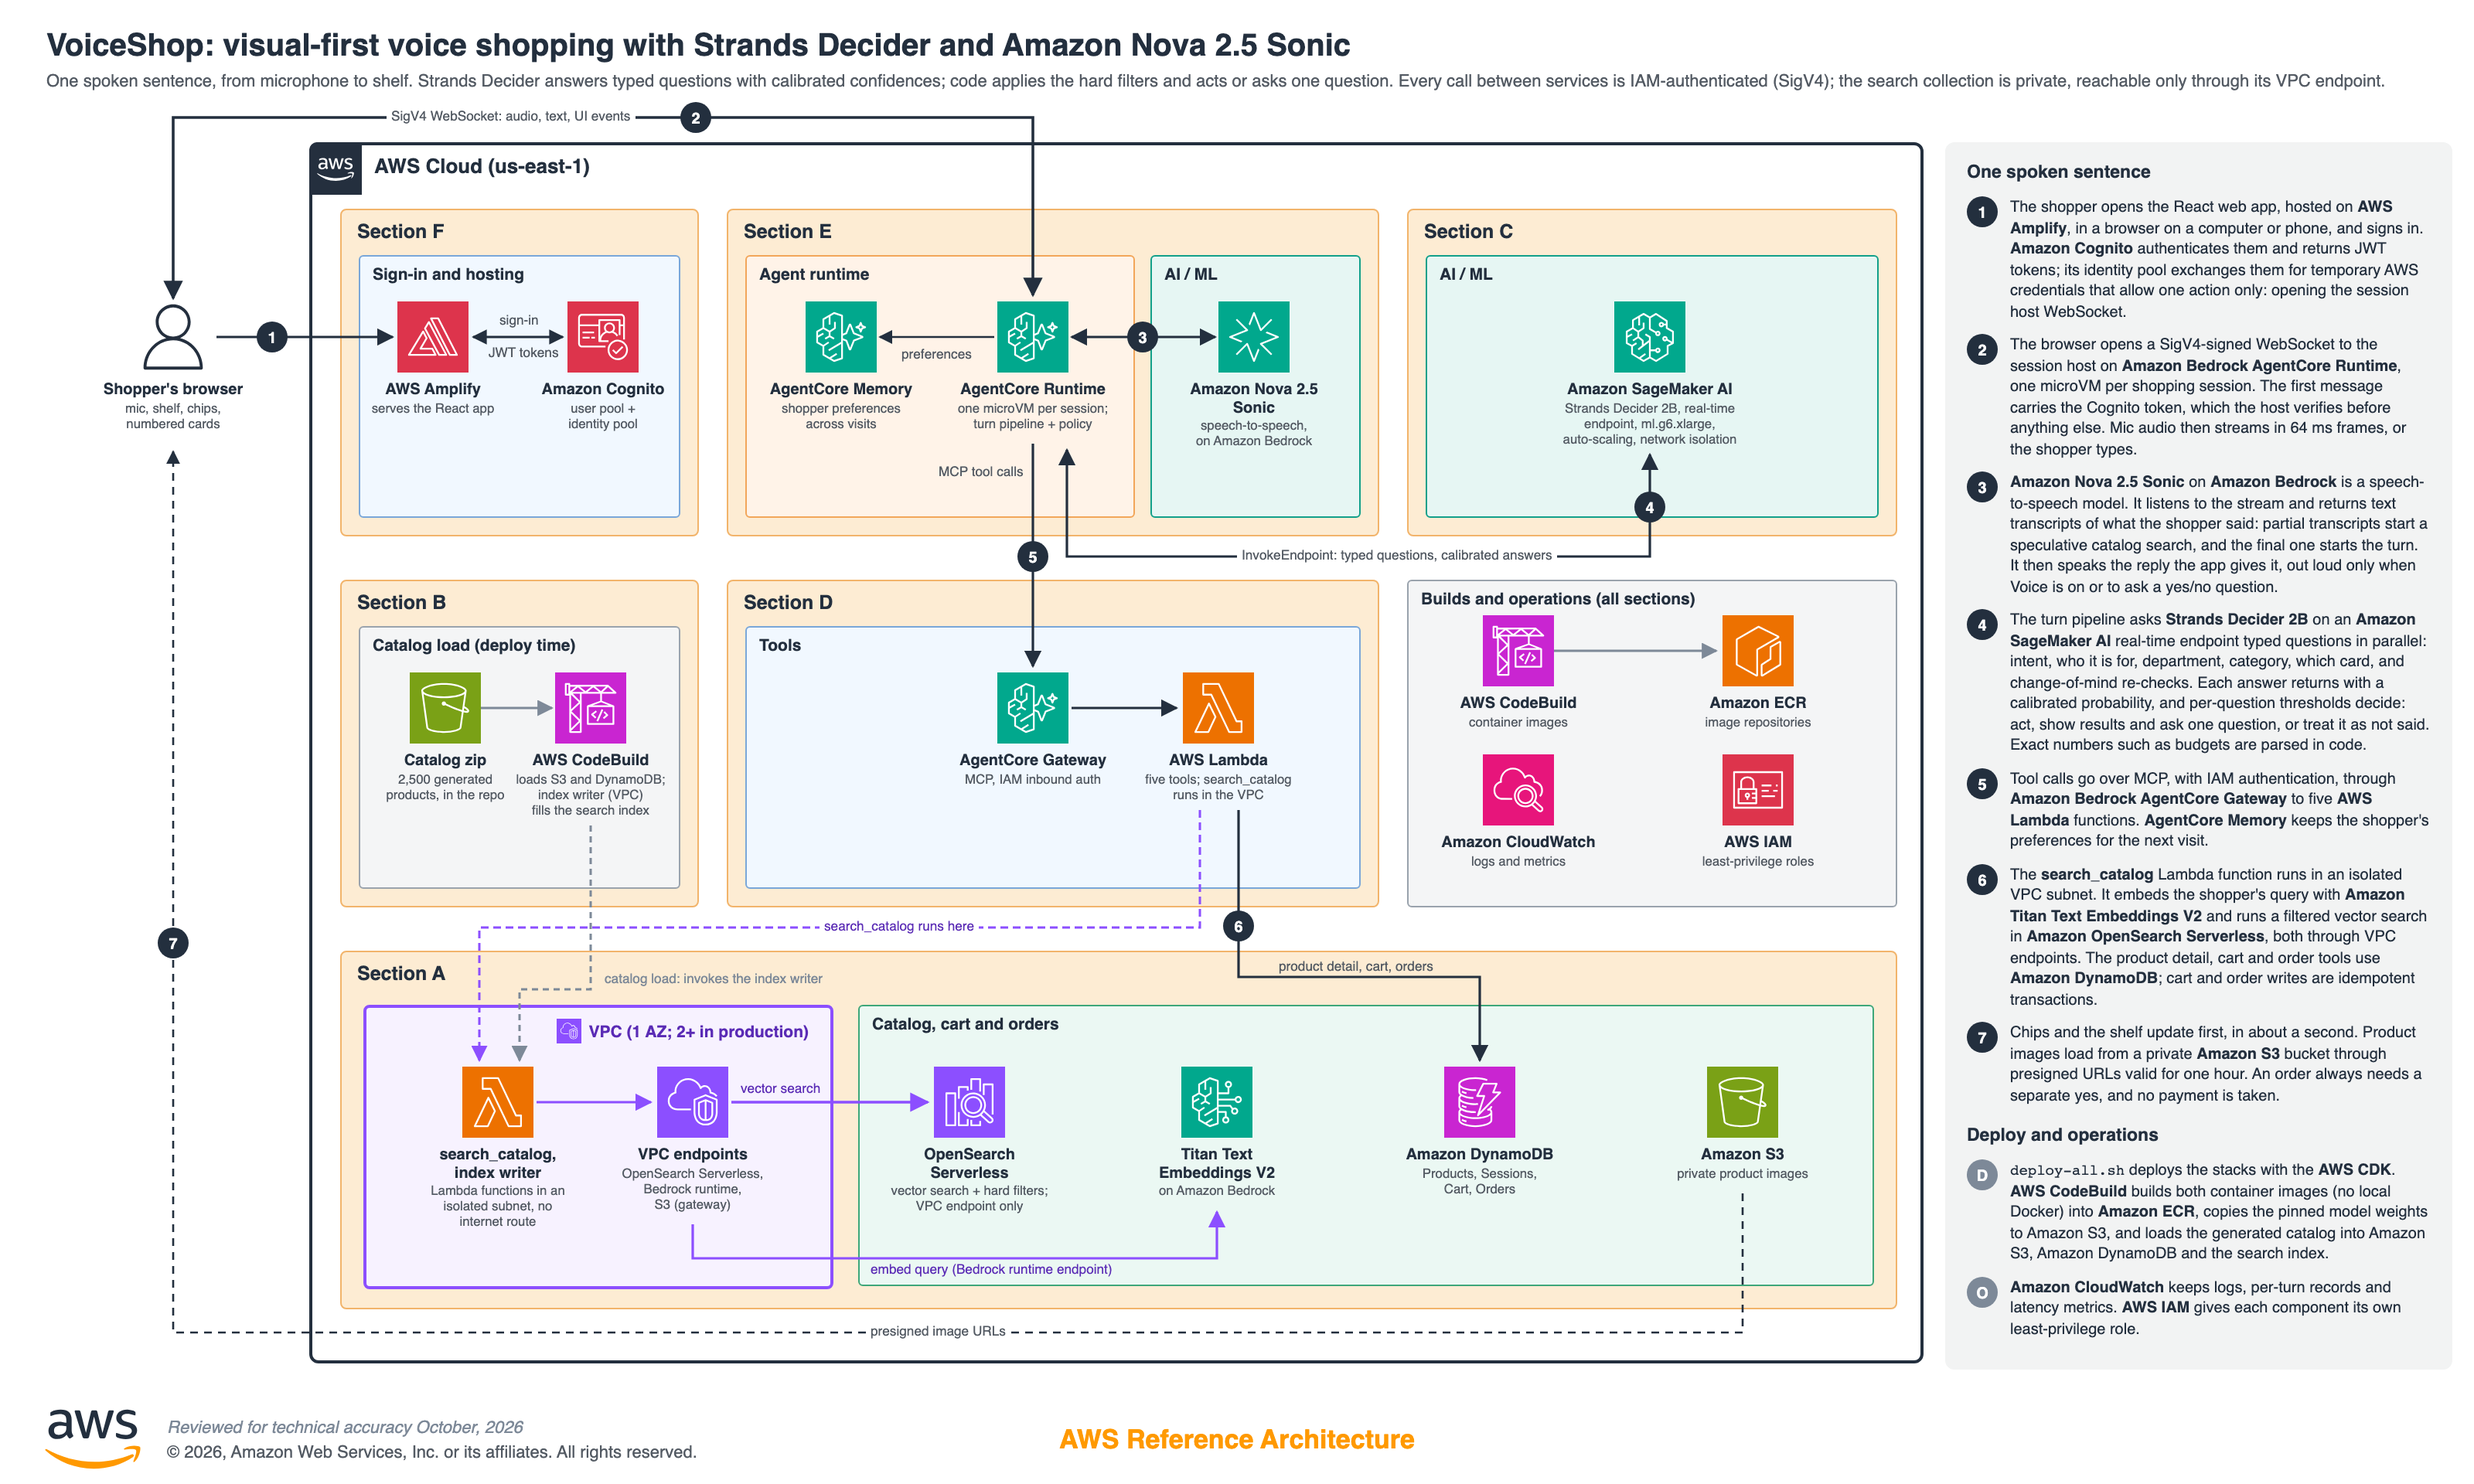
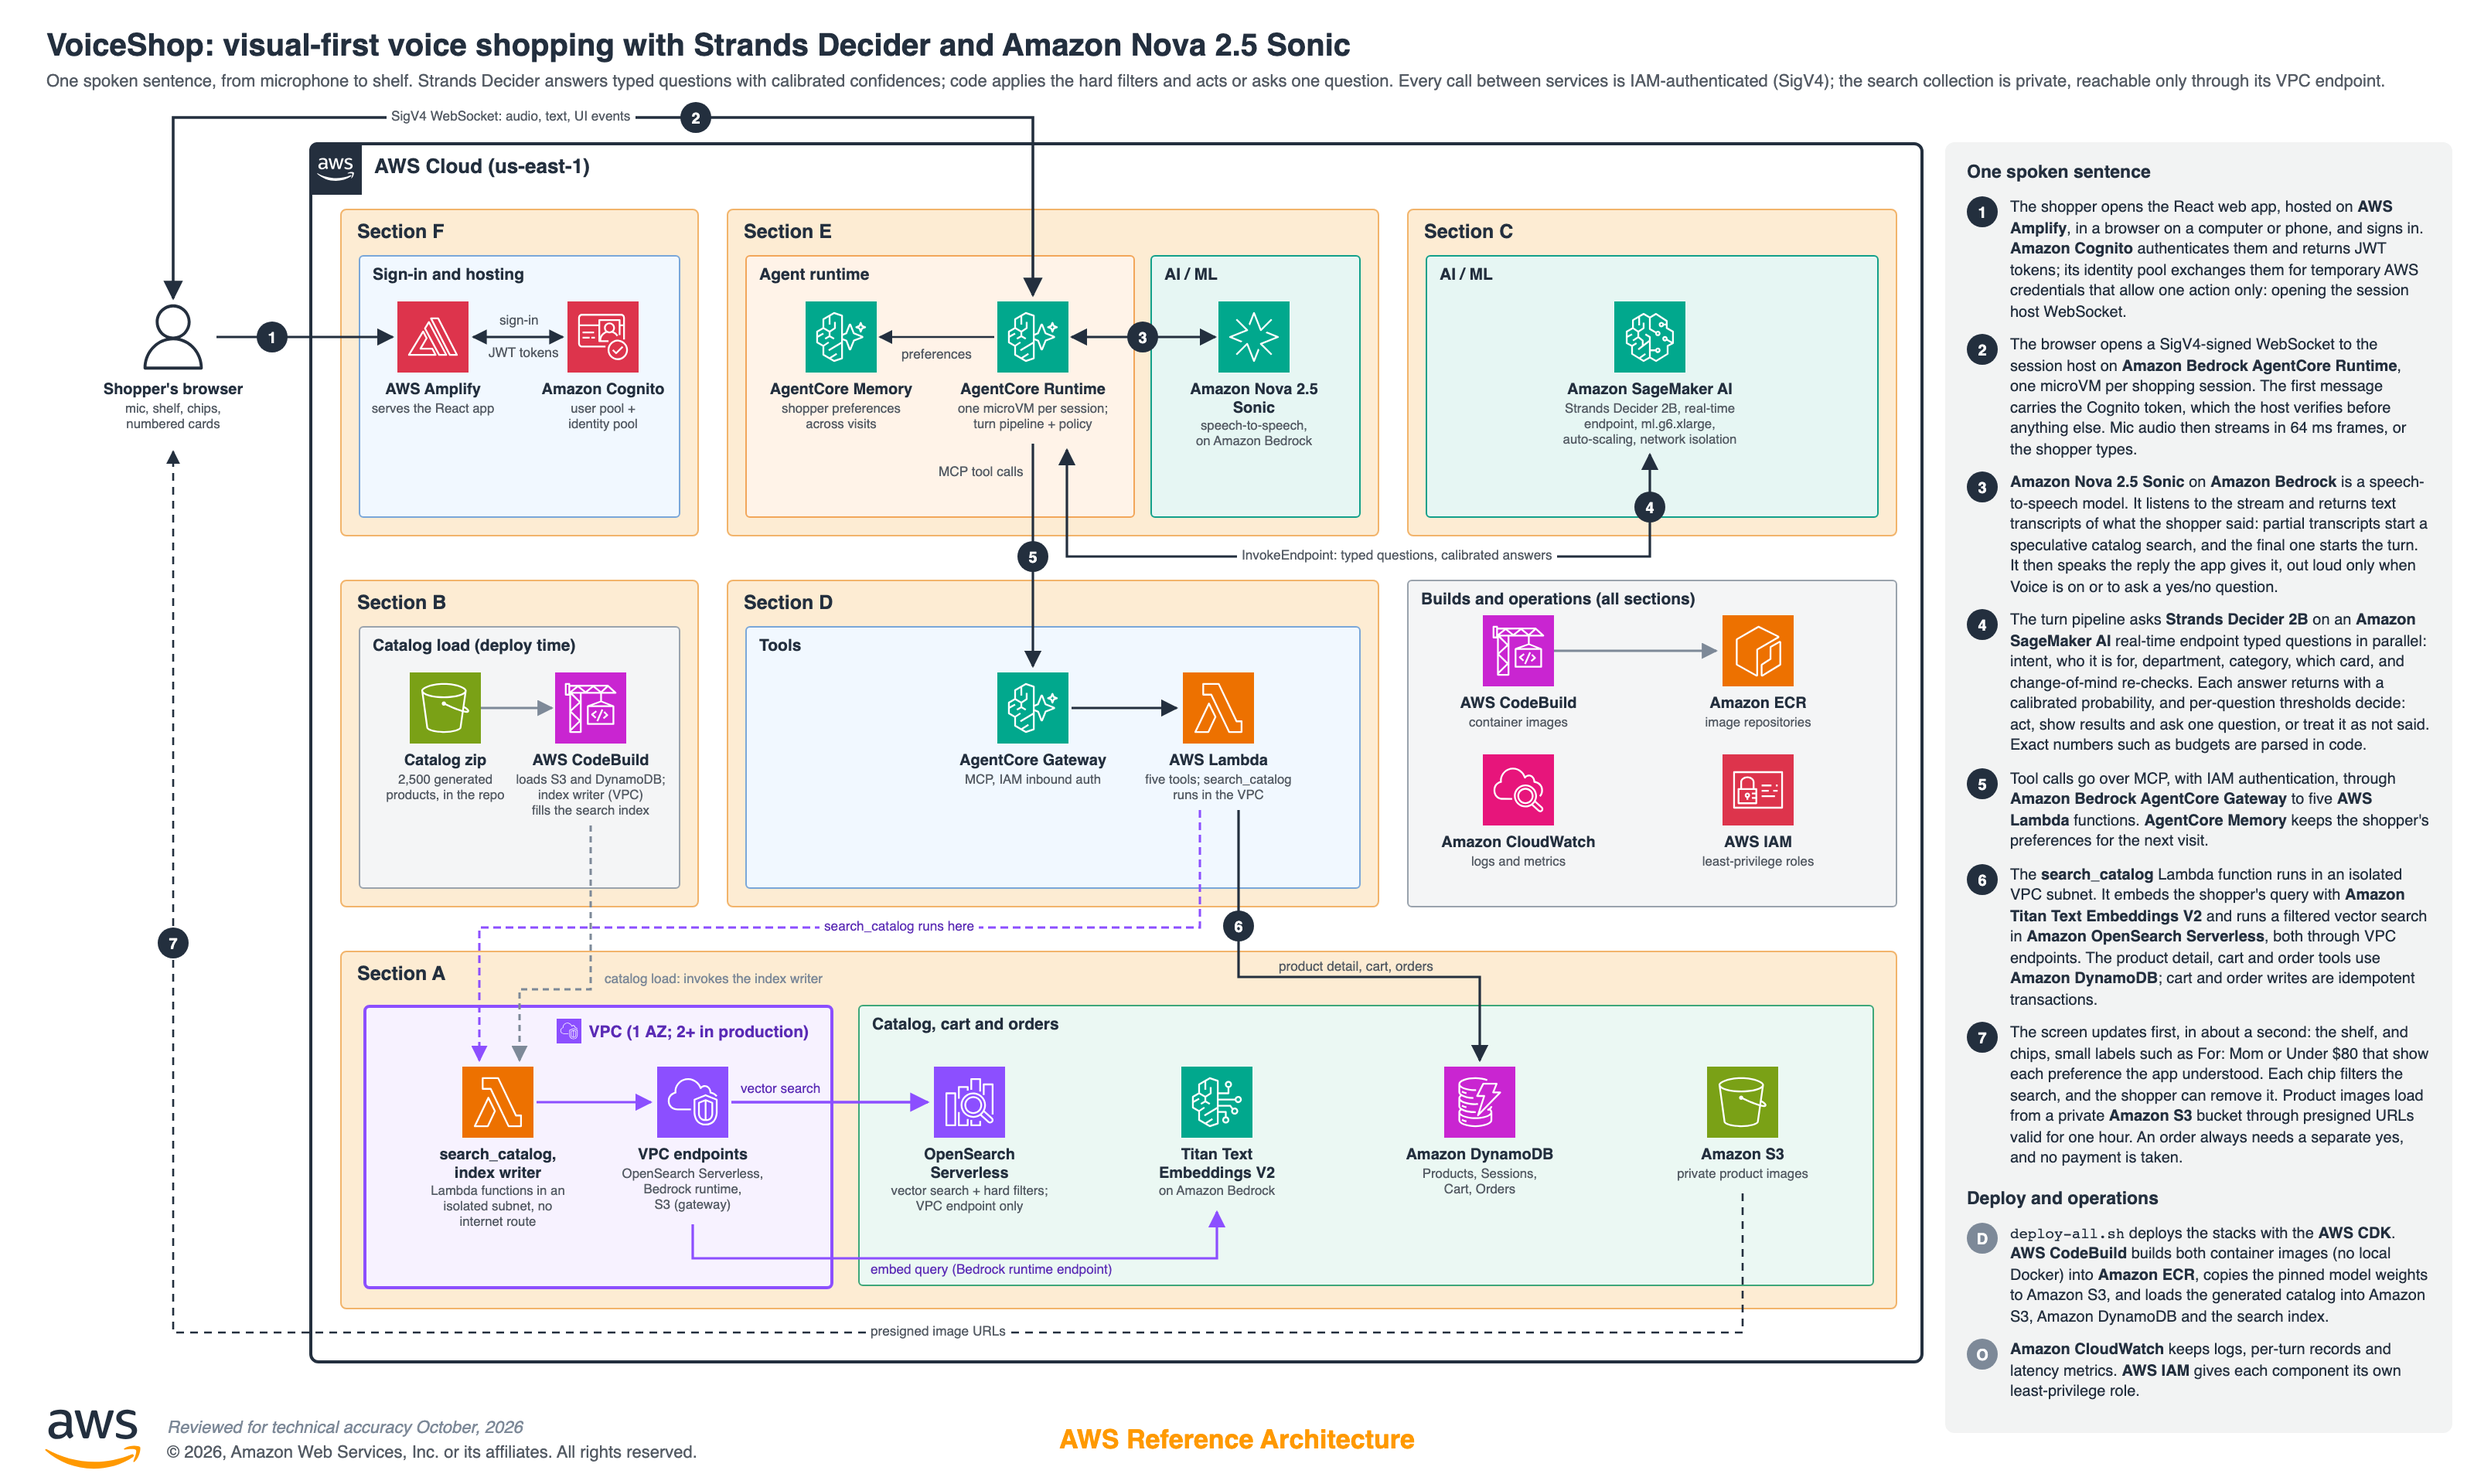
Define chips where they first appear (diagram step 7, README)

Changed region(s): [[0.7812, 0.6875, 0.9688, 0.9375]]

diff --git a/assets/architecture-diagram-source.html b/assets/architecture-diagram-source.html
@@ -166,7 +166,7 @@
     <div class="row"><div class="b">4</div><div class="x">The turn pipeline asks <b>Strands Decider 2B</b> on an <b>Amazon SageMaker AI</b> real-time endpoint typed questions in parallel: intent, who it is for, department, category, which card, and change-of-mind re-checks. Each answer returns with a calibrated probability, and per-question thresholds decide: act, show results and ask one question, or treat it as not said. Exact numbers such as budgets are parsed in code.</div></div>
     <div class="row"><div class="b">5</div><div class="x">Tool calls go over MCP, with IAM authentication, through <b>Amazon Bedrock AgentCore Gateway</b> to five <b>AWS Lambda</b> functions. <b>AgentCore Memory</b> keeps the shopper&#39;s preferences for the next visit.</div></div>
     <div class="row"><div class="b">6</div><div class="x">The <b>search_catalog</b> Lambda function runs in an isolated VPC subnet. It embeds the shopper&#39;s query with <b>Amazon Titan Text Embeddings V2</b> and runs a filtered vector search in <b>Amazon OpenSearch Serverless</b>, both through VPC endpoints. The product detail, cart and order tools use <b>Amazon DynamoDB</b>; cart and order writes are idempotent transactions.</div></div>
-    <div class="row"><div class="b">7</div><div class="x">Chips and the shelf update first, in about a second. Product images load from a private <b>Amazon S3</b> bucket through presigned URLs valid for one hour. An order always needs a separate yes, and no payment is taken.</div></div>
+    <div class="row"><div class="b">7</div><div class="x">The screen updates first, in about a second: the shelf, and chips, small labels such as For: Mom or Under $80 that show each preference the app understood. Each chip filters the search, and the shopper can remove it. Product images load from a private <b>Amazon S3</b> bucket through presigned URLs valid for one hour. An order always needs a separate yes, and no payment is taken.</div></div>
     <h3 style="margin-top:12px;">Deploy and operations</h3>
     <div class="row"><div class="b dep">D</div><div class="x"><code>deploy-all.sh</code> deploys the stacks with the <b>AWS CDK</b>. <b>AWS CodeBuild</b> builds both container images (no local Docker) into <b>Amazon ECR</b>, copies the pinned model weights to Amazon S3, and loads the generated catalog into Amazon S3, Amazon DynamoDB and the search index.</div></div>
     <div class="row"><div class="b dep">O</div><div class="x"><b>Amazon CloudWatch</b> keeps logs, per-turn records and latency metrics. <b>AWS IAM</b> gives each component its own least-privilege role.</div></div>

diff --git a/README.md b/README.md
@@ -68,7 +68,7 @@ The session host (Python, FastAPI) runs the turn pipeline and the decision polic
 4. The session host sends typed questions to **Strands Decider 2B** on the **Amazon SageMaker AI** endpoint: the intent, who the item is for, the department, then the category within it, the budget, and which card the shopper means. Each answer comes with a calibrated confidence. Depending on that confidence, the code acts, shows results while asking one short question, or offers a yes/no choice.
 5. The session host calls tools through **Amazon Bedrock AgentCore Gateway** (MCP, IAM), which invokes **AWS Lambda** functions. Code enforces every committed filter. **Amazon Bedrock AgentCore Memory** keeps preferences for the next visit.
 6. The `search_catalog` Lambda function runs in an isolated VPC subnet. It embeds the shopper's query with **Amazon Titan Text Embeddings V2** and runs a filtered vector search in **Amazon OpenSearch Serverless** through the collection's VPC endpoint. Carts and orders are **Amazon DynamoDB** transactions.
-7. The chips and the shelf update first, in about one second. Product images arrive as presigned **Amazon S3** URLs.
+7. The screen updates first, in about one second: the shelf, and the chips, small labels such as **For: Mom** or **Under $80** that show each preference the app understood. Each chip filters the search, and the shopper can remove it with a tap. Product images arrive as presigned **Amazon S3** URLs.
 8. At deploy time, `deploy-all.sh` builds both container images in **AWS CodeBuild** (no local Docker), stores them in **Amazon ECR**, creates the endpoint, and loads the catalog. **Amazon CloudWatch** collects logs, per-turn records and latency metrics. Every role is least-privilege, scoped by **AWS IAM**.
 
 ### The turn pipeline
